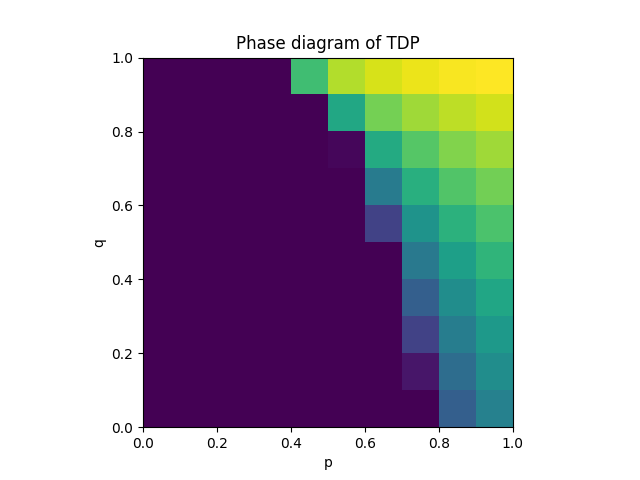
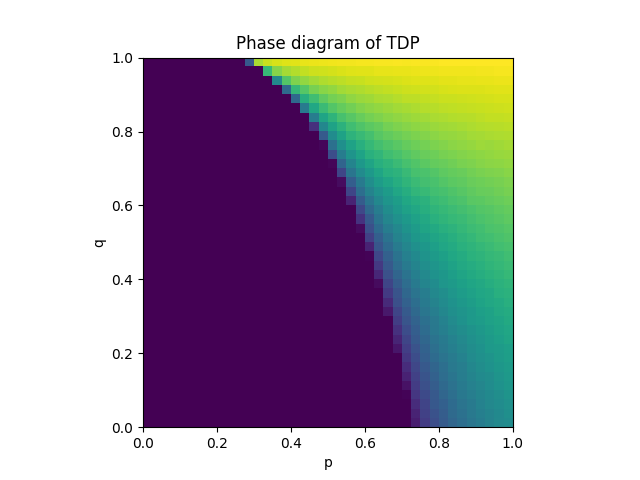
Stray commits

diff --git a/terminal.py b/terminal.py
@@ -1,7 +1,11 @@
+# libraries
+from matplotlib import pyplot as plt
+from numpy import arange, zeros
+# models
 from models.contact_spatial.main import contact_spatial
 from models.scanlon_kalahari.main import scanlon_kalahari
 from models.tricritical.main import tricritical
-
+# analysis
 from plot_density import plot_density
 from purge_data import purge_data
 from render_simulation import render_simulation
@@ -9,7 +13,27 @@ from render_simulation import render_simulation
 
 if __name__ == '__main__':
     """ Write automated scripts here """
-    tricritical(1, 0.92, 5, True)
-    render_simulation("tricritical", 0)
-    plot_density("tricritical", range(5), 1)
-    purge_data("tricritical")
+
+    p_range = arange(0, 1, 0.025)
+    q_range = arange(0, 1, 0.025)
+    all_values = [[p, q] for p in p_range for q in q_range]
+    n = len(p_range)
+
+    densities = zeros((n, n), dtype=float)
+
+    for j, p in enumerate(p_range):
+        for i, q in enumerate(q_range):
+            print(f"For ({p}, {q}):")
+            mean_density = tricritical(p, q, 5, False)
+            densities[i, j] = mean_density
+            print(f"Mean density: {mean_density}")
+            print("")
+
+            with open("output.txt", "a") as file:
+                file.write(f"{round(p, 2)}\t{round(q, 2)}\t{round(mean_density, 4)}\n")
+
+    plt.title("Phase diagram of TDP")
+    plt.xlabel("p")
+    plt.ylabel("q")
+    plt.imshow(densities, origin="lower", extent=[0, 1, 0, 1])
+    plt.show()

diff --git a/models/scanlon_kalahari/main.py b/models/scanlon_kalahari/main.py
@@ -62,7 +62,6 @@ def simulate(simulation_index):
         time_series.append(copy(lattice))
 
         if simulation_index == 0:
-            # display progress of simulation
             print(f"{i * 100 / mc_steps} %", end="\r")
 
     return time_series
@@ -102,7 +101,7 @@ def save_automaton_data(time_series):
 def scanlon_kalahari(rainfall_ext = 800, num_parallel = 10, save = False):
     # model parameters
     global length, rainfall, f_carrying, r_influence, immediacy
-    length = 512
+    length = 250
     rainfall = rainfall_ext
     f_carrying = get_forest_cover(rainfall)
     r_influence = 6
@@ -110,7 +109,7 @@ def scanlon_kalahari(rainfall_ext = 800, num_parallel = 10, save = False):
 
     # simulation parameters
     global mc_steps, mc_updates
-    mc_steps = 200
+    mc_steps = 100
     mc_updates = floor(0.2 * length * length)
 
     print(f"Simulating {num_parallel} automatons in parallel ...")

diff --git a/purge_data.py b/purge_data.py
@@ -8,6 +8,7 @@ def purge_data(model_name = None):
         purge_data("contact_spatial")
         purge_data("scanlon_kalahari")
         purge_data("tricritical")
+        return
 
     model_path = "models\\" + model_name
     folder_path = os.path.join(os.path.dirname(__file__), model_path)
@@ -20,4 +21,4 @@ def purge_data(model_name = None):
 
 
 if __name__ == '__main__':
-    purge_data("tricritical")
+    purge_data()

diff --git a/render_simulation.py b/render_simulation.py
@@ -24,4 +24,4 @@ def render_simulation(model_name, simulation_index):
 
 
 if __name__ == '__main__':
-    render_simulation("tricritial", 0)
+    render_simulation("contact_spatial", 0)
